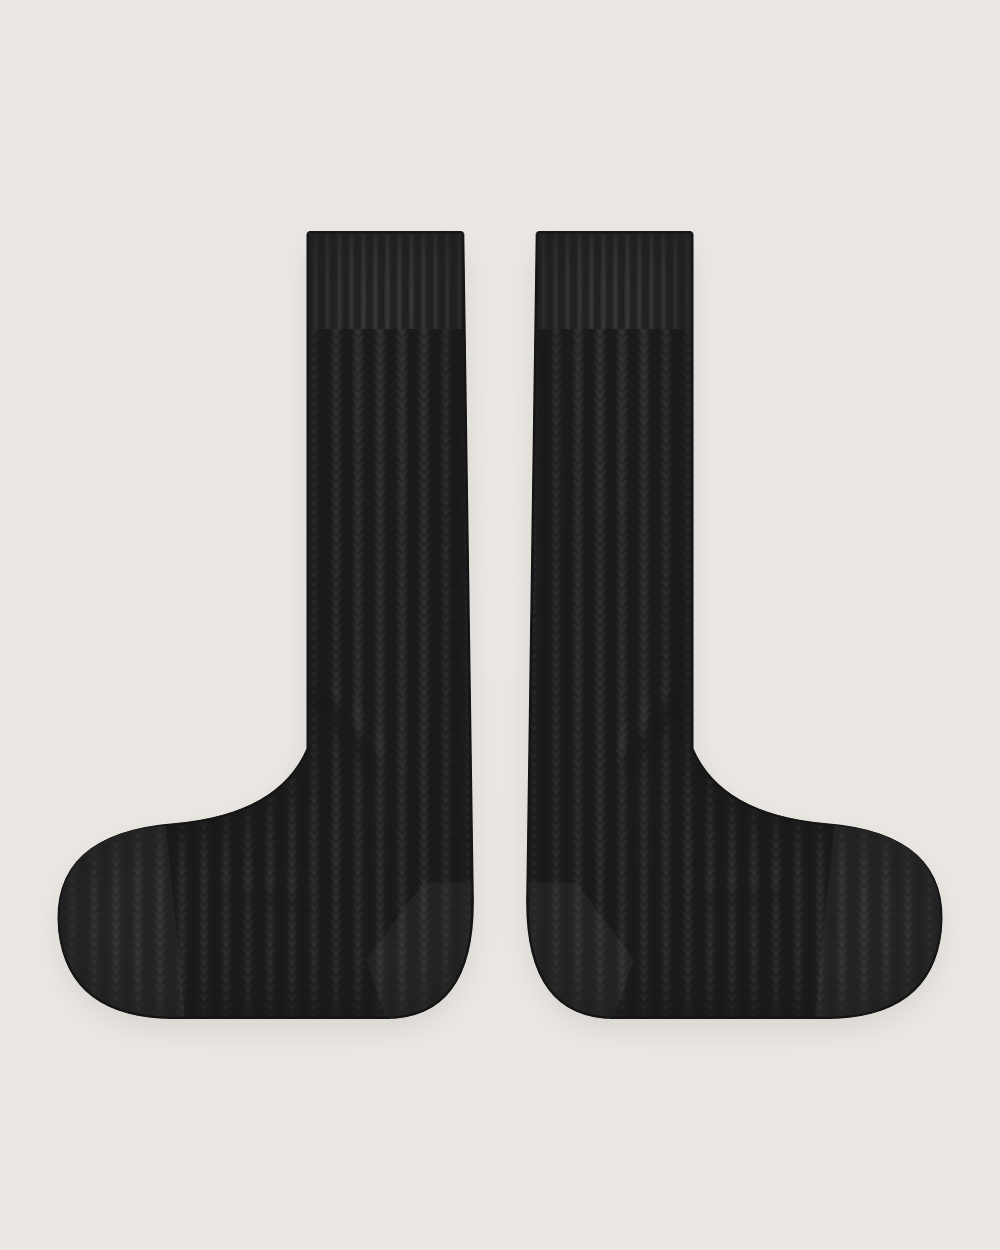
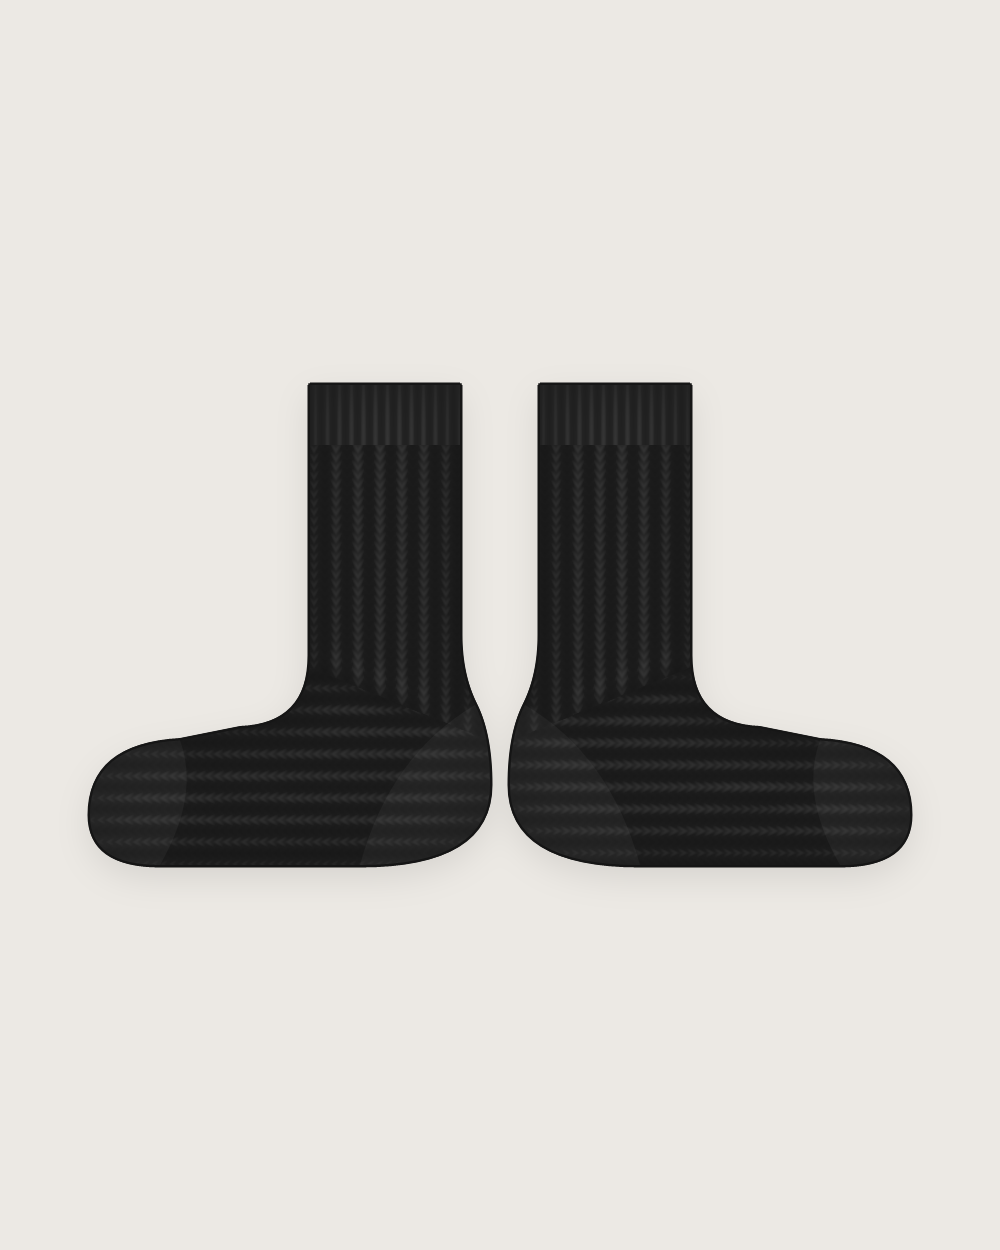
feat(seed): redraw the socks with realistic proportions
The feet were taller than the leg is wide, with a square heel and a
round toe. The silhouette now follows a sock laid flat: the heel bulges
out behind the leg, the foot tapers to the toe, and the ribs on the
foot run along it instead of down.

Changed region(s): [[0.031, 0.3744, 0.961, 0.8424], [0.527, 0.1872, 0.713, 0.5616], [0.279, 0.1872, 0.465, 0.312]]

diff --git a/seed/scripts/garments.ts b/seed/scripts/garments.ts
@@ -31,11 +31,14 @@ type Paint = (base: Rgb) => Rgb;
 
 interface Layer {
   shape: Point[];
-  paint: Paint;
+  /** Left out for a layer that only changes the shading, like a panel with its own grain. */
+  paint?: Paint;
   /** A piece of the garment, like the body or a sleeve: it gets an outline and casts the shadow. */
   piece?: boolean;
   /** For a rib trim, the direction its ribs run in. */
   ribs?: Point;
+  /** For a panel knitted another way, like the foot of a sock, the direction its fabric runs in. */
+  grain?: Point;
 }
 
 /** A soft fold: a crease from `from` to `to`, with a lit ridge beside it. */
@@ -88,7 +91,7 @@ export function paintGarment({ layers, shading }: Drawing, hex: string): Uint8Ar
         );
       }
     }
-    canvas.fill(layer.shape, layer.paint(base));
+    if (layer.paint) canvas.fill(layer.shape, layer.paint(base));
   }
   canvas.shade(shading);
   return canvas.toRgb();
@@ -140,6 +143,12 @@ function shading(layers: Layer[], folds: Fold[], texture: Texture): Float32Array
     mask.fill(shape);
     return [{ coverage: mask.data, direction }];
   });
+  const panels = layers.flatMap(({ shape, grain }) => {
+    if (!grain) return [];
+    const mask = new Mask(WIDTH, HEIGHT);
+    mask.fill(shape);
+    return [{ coverage: mask.data, grain }];
+  });
 
   const out = new Float32Array(WIDTH * HEIGHT);
   for (let y = 0; y < HEIGHT; y++) {
@@ -159,7 +168,16 @@ function shading(layers: Layer[], folds: Fold[], texture: Texture): Float32Array
           fabric += share * RIB * ribs(x * direction[1] - y * direction[0], ribPeriod);
           ribbed += share;
         }
-        fabric += Math.max(0, 1 - ribbed) * surface(texture, x, y);
+        let turned = 0;
+        for (const { coverage, grain } of panels) {
+          const share = coverage[i] as number;
+          if (share === 0) continue;
+          // The surface runs down the image, so turn the pixel into the panel's own frame.
+          fabric +=
+            share * surface(texture, x * grain[1] - y * grain[0], x * grain[0] + y * grain[1]);
+          turned += share;
+        }
+        fabric += Math.max(0, 1 - ribbed - turned) * surface(texture, x, y);
         const light = LIGHT * (0.5 - y / HEIGHT);
         const edge = -EDGE * (1 - (form[i] as number));
         const fold = RIDGE * (ridge[i] as number) - CREASE * (crease[i] as number);
@@ -785,45 +803,67 @@ function scarf(): Design {
 /** A pair of socks laid flat side by side, heel and toe reinforced. Relaxed is a taller boot sock. */
 function socks({ fit }: Look): Design {
   const boot = fit === "relaxed";
-  const top = boot ? 8 : 16;
-  const [heel, instep] = boot ? [53, 71] : [54, 70];
+  // A real sock laid flat: the foot is about as tall as the leg is wide and 2.6 times as long, and
+  // the leg stands about 3.2 widths tall on a crew sock, 3.9 on a boot sock.
+  const width = boot ? 16 : 15;
+  const [back, front] = [54, 54 + width];
+  const [top, sole] = [boot ? 38 : 52, 100];
+  const instep = sole - width * 0.93;
+  const toe = back - 2 + width * 2.6;
+  const toeStart: Point = [toe - 9, instep + 1.5];
+  // The heel pocket bulges out behind the leg before it rounds into the sole.
+  const heelCorner = quad([back + 10, sole], [back - 3, sole], [back - 3, sole - 8]);
+  const heelBack = quad([back - 3, sole - 8], [back - 3, sole - 13], [back - 1.5, sole - 16]);
+  const toeCap = [
+    ...quad(toeStart, [toe, instep + 2], [toe, sole - 5]),
+    ...quad([toe, sole - 5], [toe, sole], [toe - 7, sole]).slice(1),
+  ];
   const sock: Point[] = [
-    [heel, top],
-    [instep, top],
-    [instep, 70],
-    ...quad([instep, 70], [instep + 3, 77], [84, 78]).slice(1),
-    ...quad([84, 78], [97, 79], [96, 89]).slice(1),
-    ...quad([96, 89], [95, 98], [84, 98]).slice(1),
-    [62, 98],
-    ...quad([62, 98], [heel - 1, 98], [heel - 1, 86]).slice(1),
+    [back, top],
+    [front, top],
+    ...quad([front, instep - 7], [front, instep], [front + 7, instep + 0.3]),
+    ...toeCap,
+    ...heelCorner,
+    ...heelBack.slice(1),
+    ...quad([back - 1.5, sole - 16], [back, sole - 19], [back, sole - 23]).slice(1),
   ];
   const heelPatch: Point[] = [
-    [heel - 1, 84],
-    ...quad([heel - 1, 86], [heel - 1, 98], [62, 98]).slice(1),
-    [64, 92],
-    [heel + 4, 84],
+    ...heelCorner,
+    ...heelBack.slice(1),
+    ...quad([back - 1.5, sole - 16], [back + 7, sole - 11], [back + 10, sole]).slice(1, -1),
   ];
   const toePatch: Point[] = [
-    [85, 78],
-    ...quad([85, 78], [97, 79], [96, 89]).slice(1),
-    ...quad([96, 89], [95, 98], [84, 98]).slice(1),
-    [83, 98],
-    [84, 88],
+    ...toeCap,
+    ...quad([toe - 7, sole], [toe - 11, sole - 7], toeStart).slice(1, -1),
+  ];
+  // Below the ankle the knit turns and runs along the foot. The panel reaches past the outline,
+  // where it changes nothing, so only its edge across the ankle matters.
+  const ankle: [Point, Point] = [
+    [back - 4, sole - 12],
+    [front + 3, instep - 7],
+  ];
+  const foot: Point[] = [
+    ...ankle,
+    [toe + 2, instep - 7],
+    [toe + 2, sole + 2],
+    [back - 4, sole + 2],
   ];
   return {
     layers: [
       ...mirror({ shape: sock, paint: BASE, piece: true }),
+      ...mirror({ shape: foot, grain: [1, 0] }),
       ...mirror({ shape: heelPatch, paint: tone(0.07) }),
       ...mirror({ shape: toePatch, paint: tone(0.07) }),
       ...mirror({
-        shape: rect(heel, top, instep, top + (boot ? 14 : 10)),
+        shape: rect(back, top, front, top + (boot ? 9 : 6)),
         paint: tone(0.05),
         ribs: [0, 1],
       }),
     ],
     folds: mirrorFolds([
-      { from: [instep - 1, 64], to: [instep - 7, 72], width: 1.2, depth: 0.5 },
-      { from: [70, 86], to: [80, 85], width: 1, depth: 0.3 },
+      // The crease where the knit turns hides the change of grain.
+      { from: lerp(...ankle, 0.35), to: lerp(...ankle, 0.85), width: 1.2, depth: 0.45 },
+      { from: [front + 3, sole - 6], to: [toe - 13, sole - 6.5], width: 1, depth: 0.3 },
     ]),
   };
 }
@@ -1030,13 +1070,14 @@ function symmetric(rightHalf: Point[]): Point[] {
 
 /** A layer drawn on the right, and its mirror image on the left. */
 function mirror(layer: Layer): Layer[] {
-  const { shape, ribs: direction } = layer;
+  const { shape, ribs: direction, grain } = layer;
   return [
     layer,
     {
       ...layer,
       shape: shape.map(flipX),
       ribs: direction && [-direction[0], direction[1]],
+      grain: grain && [-grain[0], grain[1]],
     },
   ];
 }
